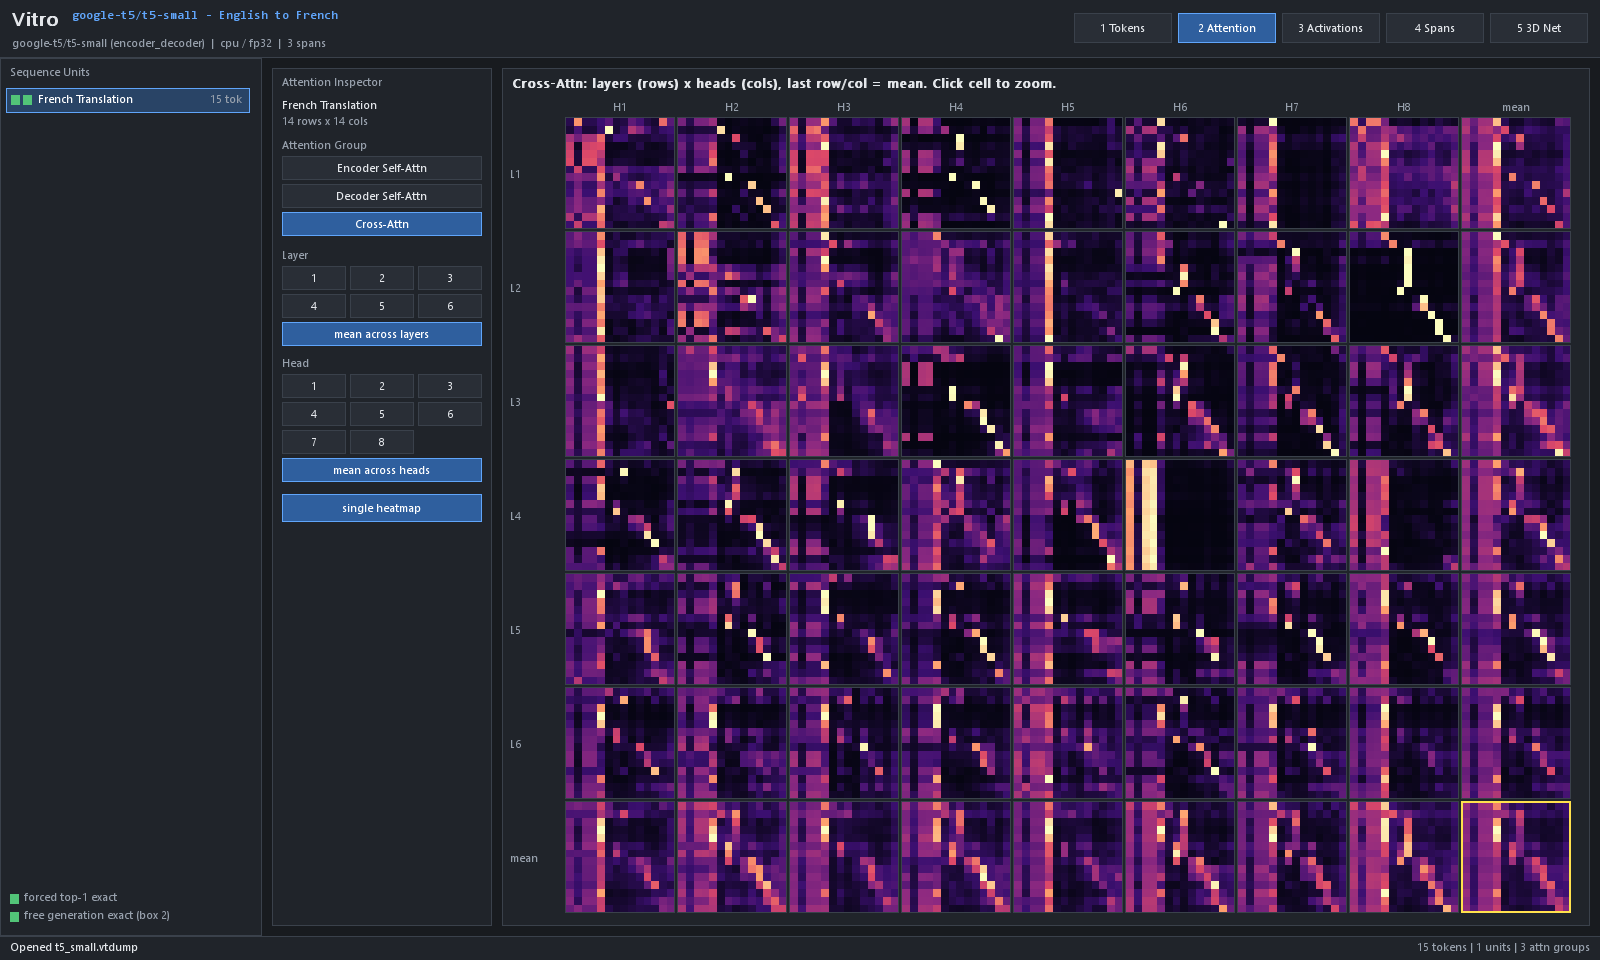
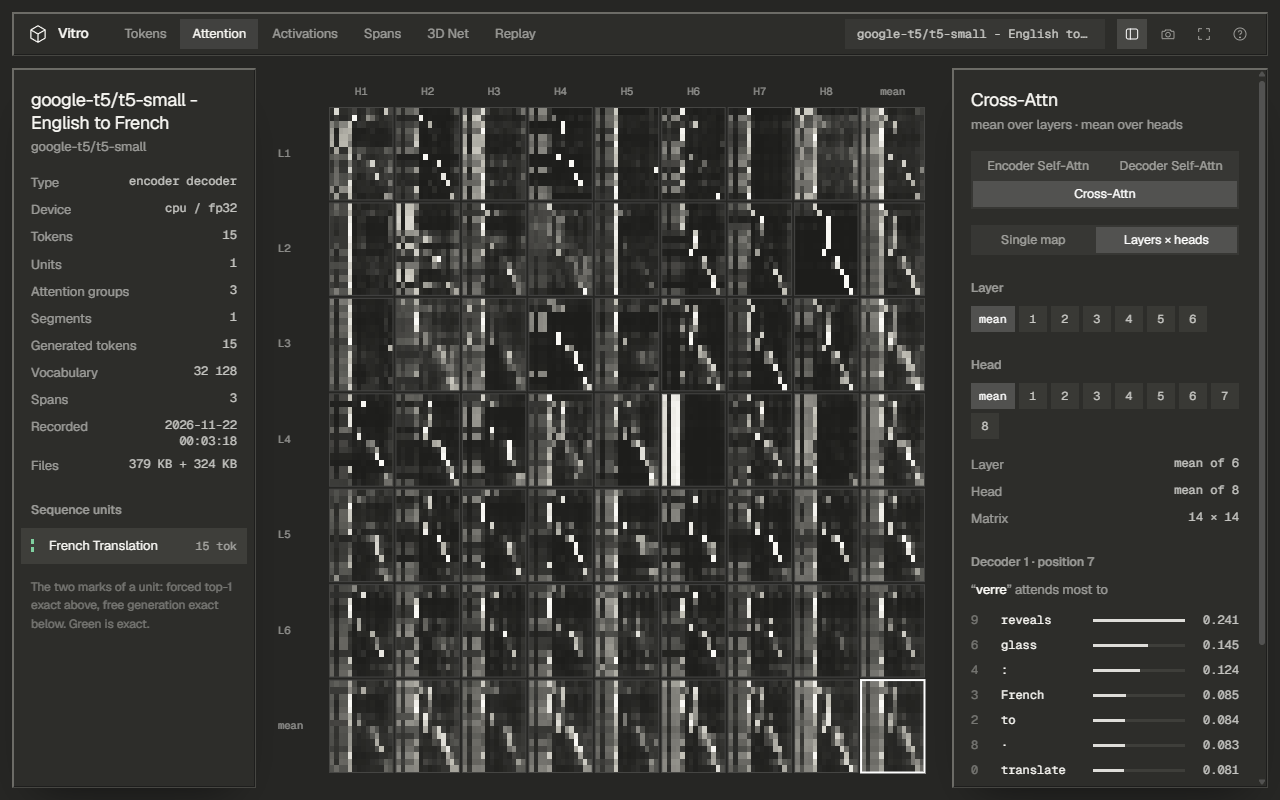
docs: README for the app, with pictures from the real vitro.exe window
The README now starts from vitro.exe (what it is, how to open traces, the six tabs, the build) and keeps the tracing
section. The five pictures are taken by vitro.exe --screenshot, so they show the program and not a mock-up.

diff --git a/README.md b/README.md
@@ -1,56 +1,60 @@
 # Vitro
 
-Visual trace inspector and 3D generation player for PyTorch models.
-
-Vitro captures forward passes and autoregressive generation from PyTorch and HuggingFace transformers into compact binary files (.vtdump and .vtdemo), then renders them in two standalone Windows C++ programs (Win32 and GDI, static build, no Python or GPU needed to inspect saved traces).
+A glass-box inspector for PyTorch models. Vitro captures forward passes and autoregressive generation from PyTorch and HuggingFace transformers into compact binary files (.vtdump and .vtdemo), and opens them in **one app, `vitro.exe`**: tokens with their probabilities, attention, activations, labelled spans, a 3D view of the network with the path a prediction took, and a step-by-step 3D replay of a generation.
 
 ![T5-small 3D generation replay](assets/t5_demo_3d.png)
 
+## The app
+
+`vitro.exe` is a single Windows program of about 6 MB. Its interface is a web app (React, in `web/`) shown in the program's own window by the Microsoft Edge engine that Windows already has (WebView2). There is no server and no browser: the program carries the app, the sample traces and the licence notices inside itself, and the traces you open are read in the window and never uploaded.
+
+    bin\vitro.exe                                          the start screen, with the sample traces
+    bin\vitro.exe samples\t5_small.vtdump samples\t5_small.vtdemo   open the two files of one run
+
+A dump (.vtdump) powers the inspector tabs and a recording (.vtdemo) the replay; open both files of one run to use every tab. Files can also be dropped on the window or on the program's icon, chosen with the picker (O), or listed on the command line. `vitro.exe --help` lists the options.
+
+The six tabs (keys 1 to 6):
+
+1. **Tokens**: the target sequence against the free rollout, user-labelled spans, surprisal, rank, entropy or numeric-error colours, and per-token top-K probabilities. Arrow keys step through tokens, E jumps to the next top-1 miss, D to the first divergence.
+2. **Attention**: a heat map per layer and head with a switcher across all attention families of the model (encoder self, decoder self, cross-attention, ...), the mean over layers and heads, and a page of all layers by heads.
+3. **Activations**: L2 activation norms across layers and sublayers, plus any 2D latent maps with their cosine similarity.
+4. **Spans**: the labelled token intervals as a nested list, with the cost of each in bits and misses.
+5. **3D Net**: the stage graph built from the trace, with a backward attention rollout from the selected token lighting the path that led to its prediction.
+6. **Replay**: playback from reading the input context through each generated token at 0.25x to 16x speed, lighting the attention paths into each candidate. Space plays and pauses, the arrows step.
+
+Press ? in the app for every key. S saves the picture of the open view as a PNG; the view you left is kept in the address of the window, so a view can be reproduced with `--hash`.
+
+![T5-small backward attention rollout](assets/t5_net_rollout.png)
+
+![T5-small cross-attention, all layers by heads](assets/t5_cross_attn.png)
+
+![Qwen3-0.6B token probabilities and spans](assets/qwen3_tokens.png)
+
+![Qwen3-0.6B 3D generation replay](assets/qwen3_demo_3d.png)
+
+### Build
+
+    bash build.sh app          builds bin/vitro.exe
+
+You need MinGW-w64 g++ (MSYS2) and Python 3. The first build downloads the Microsoft WebView2 SDK, pinned to one version and checked against its SHA-256 (`tools/fetch_webview2.py`). The program is built from `web/dist`, which is committed, so Node is needed only to change the interface: `cd web && npm install && npm run build` renews `web/dist`, and `npm test` runs the interface tests.
+
+### In a browser, on any system
+
+    vitro web samples/t5_small.vtdump samples/t5_small.vtdemo
+
+serves the same app on 127.0.0.1 (nothing leaves your machine) and opens it in your browser. This is the way to use Vitro on Linux and macOS.
+
 ## Included sample traces
 
-Ready-to-open traces recorded from real pretrained text models live in samples/:
+Ready-to-open traces recorded from real pretrained text models live in samples/ (and are built into vitro.exe):
 
 - samples/t5_small.vtdump and samples/t5_small.vtdemo: google-t5/t5-small translating "The glass box reveals every layer." into French (6 encoder layers, 6 decoder layers, cross-attention).
 - samples/qwen3_0_6b.vtdump and samples/qwen3_0_6b.vtdemo: Qwen/Qwen3-0.6B autoregressive causal continuation (28 layers).
 
-Open them directly after building:
-
-    bin/vitro_view.exe samples/t5_small.vtdump
-    bin/vitro_demo.exe samples/qwen3_0_6b.vtdemo
-
-Qwen3-0.6B 28-layer step-by-step generation replay in vitro_demo.exe:
-
-![Qwen3-0.6B 3D generation replay](assets/qwen3_demo_3d.png)
-
-T5-small backward attention rollout (3D Net view) and 6x8 cross-attention grid in vitro_view.exe:
-
-![T5-small 3D attention rollout](assets/t5_net_rollout.png)
-
-![T5-small cross-attention grid](assets/t5_cross_attn.png)
-
-Qwen3-0.6B token surprisal strip, span annotations, and top-5 candidates (Tokens view):
-
-![Qwen3-0.6B token probabilities and spans](assets/qwen3_tokens.png)
-
-## Viewer and player
-
-Both programs are ordinary desktop windows. Press Ctrl+O or drag and drop a file onto the window to open it, B returns to the file list, Ctrl+wheel (or Ctrl with +, -, 0) scales the interface, F11 toggles full screen, S saves a PNG screenshot, and F1 prints the controls.
-
-In vitro_view.exe, keys 1 through 5 switch views:
-
-1. Tokens: target sequence against free rollout, user-labeled spans, surprisal/rank/entropy/scalar-delta colors, and per-token top-K probabilities (arrow keys step tokens, E jumps to errors, D jumps to divergence).
-2. Attention: per-layer and head attention heatmaps with a switcher across all attention families in the model (encoder self, decoder self, cross-attention, etc.) plus a grid over all layers and heads.
-3. Activations: L2 activation norms across layers and sublayers, plus any optional 2D latent maps and cosine similarity matrices.
-4. Spans: hierarchical breakdown of labeled token intervals and per-span bit cost.
-5. 3D Net: dynamic 3D stage graph built from the trace, backward attention rollout highlighting from the selected token, and animated activation pulses.
-
-In vitro_demo.exe, playback runs from reading the input context through each autoregressive token step at 0.25x to 16x speed, lighting the active attention paths into each candidate token.
-
 ## Tracing a PyTorch model
 
-Install the Python package in editable mode and build the C++ programs (MinGW-w64 g++ and zlib on Windows):
+Install the Python package in editable mode:
 
-    bash build.sh
     pip install -e . --no-build-isolation
 
 Minimal example with custom stage, span, and vocabulary labels:
@@ -84,23 +88,31 @@ Runnable examples live in examples/: tiny_decoder_only.py, tiny_encoder_decoder.
 
 CLI helpers:
 
-    vitro info samples/t5_small.vtdump
-    vitro view samples/t5_small.vtdump
-    vitro demo samples/qwen3_0_6b.vtdemo
-    vitro selftest
+    vitro app samples/t5_small.vtdump        open the app (bin/vitro.exe) with files
+    vitro web samples/t5_small.vtdump        serve the app to your browser
+    vitro info samples/t5_small.vtdump       print the summary of a trace file
+
+The older programs `vitro_view.exe` (inspector) and `vitro_demo.exe` (player) are still built by `bash build.sh` and reachable as `vitro view` and `vitro demo`; `vitro.exe` replaces both.
 
 ## Repository layout
 
-    python/vitro/     Python capture hooks, PyTorch & HuggingFace adapters, trace specs, binary container, CLI
-    cpp/include/vitro/ Reusable C++ headers (binary container reader, JSON parser, Win32 shell, GDI canvas, 3D helpers)
-    cpp/src/          vitro_view.exe and vitro_demo.exe sources
-    examples/         Causal, encoder-decoder, and HuggingFace text scripts
-    samples/          Pre-recorded .vtdump and .vtdemo traces from real text models
-    assets/           Screenshots used in README.md
-    tests/            End-to-end verification suite
+    python/vitro/       Python capture hooks, PyTorch & HuggingFace adapters, trace specs, binary container, CLI, web server
+    web/                The interface: React and TypeScript sources (web/src), tests (web/tests), the built app (web/dist)
+    cpp/src/app_*       vitro.exe: the window, the WebView2 host, the built-in resources and the library of traces
+    cpp/include/vitro/  Reusable C++ headers (binary container reader, JSON parser, Win32 shell, GDI canvas, 3D helpers)
+    cpp/src/view_*      The older vitro_view.exe and vitro_demo.exe
+    tools/              Build helpers: the WebView2 SDK download, the resources of vitro.exe, the icon
+    examples/           Causal, encoder-decoder, and HuggingFace text scripts
+    samples/            Pre-recorded .vtdump and .vtdemo traces from real text models
+    assets/             Screenshots used in README.md
+    tests/              End-to-end verification suite
+
+Third-party components inside vitro.exe (the WebView2 loader, the Geist typefaces, React) are listed with their licences in THIRD_PARTY_NOTICES.txt; `vitro.exe --licenses` prints them.
 
 ## Tests
 
-Run all checks (container format roundtrips and refusals, hook parity across causal, seq2seq, and HuggingFace models, C++ selftest, NumPy digest parity, PNG rendering, UI events, Win32 window loop, real sample trace checks, and leak audit):
+Run all checks:
 
     python tests/run_all.py
+
+They cover the container format (round trips and refusals), hook parity across causal, seq2seq, and HuggingFace models, the older programs (selftest, NumPy digest parity, PNG rendering, UI events, window loop), real sample traces, a leak audit, and for the app: the web server and its refusals, the interface's TypeScript tests (vitest), the browser reader against NumPy on every sample (numbers to 1e-9, every float16 pattern, the words of every refusal), the committed `web/dist` against a fresh build, and the real `vitro.exe` with its real window (command line, what the page can fetch, six views, replay, screenshot). The parts that need Node or Pillow say so when they are skipped.
